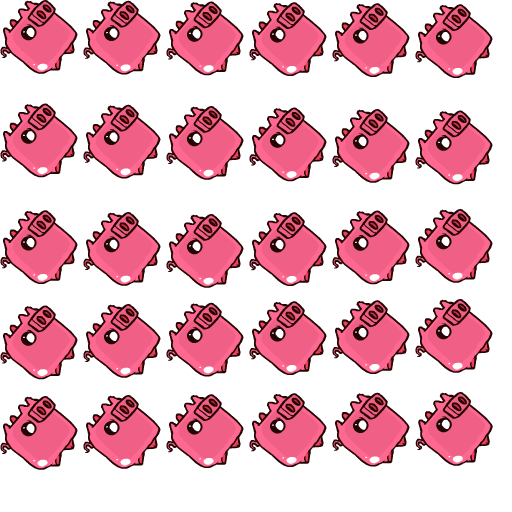
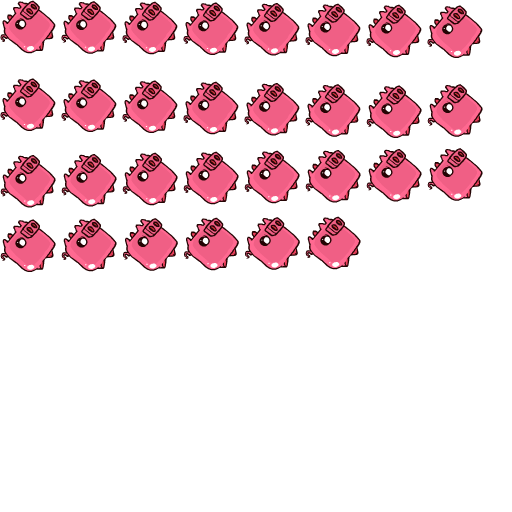
no message

diff --git a/js/Actor.js b/js/Actor.js
@@ -33,7 +33,7 @@ var Actor = function (type) {
 				[0,0,57,87,3,27.9,86.6],[62,0,57,87,3,27.9,86.6],[124,0,57,87,3,27.9,86.6],[186,0,57,87,3,27.9,86.6],[248,0,57,87,3,27.9,86.6],[310,0,57,87,3,27.9,86.6],[372,0,57,87,3,27.9,86.6],[434,0,57,87,3,27.9,86.6],[0,92,57,87,3,27.9,86.6],[62,92,57,87,3,27.9,86.6],[124,92,57,87,3,27.9,86.6],[186,92,57,87,3,27.9,86.6],[248,92,57,87,3,27.9,86.6],[310,92,57,87,3,27.9,86.6],[372,92,57,87,3,27.9,86.6],[434,92,57,87,3,27.9,86.6],[0,184,57,87,3,27.9,86.6],[62,184,57,87,3,27.9,86.6],[124,184,57,87,3,27.9,86.6],[186,184,57,87,3,27.9,86.6],[248,184,57,87,3,27.9,86.6],[310,184,57,87,3,27.9,86.6],
 				[0,0,56,97,4,27.75,93.95],[56,0,56,97,4,27.75,93.95],[112,0,56,97,4,27.75,93.95],[168,0,56,97,4,27.75,93.95],[224,0,56,97,4,27.75,93.95],[280,0,56,97,4,27.75,93.95],[336,0,56,97,4,27.75,93.95],[392,0,56,97,4,27.75,93.95],[448,0,56,97,4,27.75,93.95],[0,97,56,97,4,27.75,93.95],[56,97,56,97,4,27.75,93.95],[112,97,56,97,4,27.75,93.95],[168,97,56,97,4,27.75,93.95],[224,97,56,97,4,27.75,93.95],[280,97,56,97,4,27.75,93.95],[336,97,56,97,4,27.75,93.95],[392,97,56,97,4,27.75,93.95],[448,97,56,97,4,27.75,93.95],[0,194,56,97,4,27.75,93.95],[56,194,56,97,4,27.75,93.95],[112,194,56,97,4,27.75,93.95],[168,194,56,97,4,27.75,93.95],
 				[0,0,167,158,5,84.2,154.3],[167,0,167,158,5,84.2,154.3],[334,0,167,158,5,84.2,154.3],[501,0,167,158,5,84.2,154.3],[668,0,167,158,5,84.2,154.3],[835,0,167,158,5,84.2,154.3],[0,158,167,158,5,84.2,154.3],[167,158,167,158,5,84.2,154.3],[334,158,167,158,5,84.2,154.3],[501,158,167,158,5,84.2,154.3],[668,158,167,158,5,84.2,154.3],[835,158,167,158,5,84.2,154.3],[0,316,167,158,5,84.2,154.3],[167,316,167,158,5,84.2,154.3],[334,316,167,158,5,84.2,154.3],[501,316,167,158,5,84.2,154.3],[668,316,167,158,5,84.2,154.3],[835,316,167,158,5,84.2,154.3],[0,474,167,158,5,84.2,154.3],[167,474,167,158,5,84.2,154.3],[334,474,167,158,5,84.2,154.3],[501,474,167,158,5,84.2,154.3],[668,474,167,158,5,84.2,154.3],[835,474,167,158,5,84.2,154.3],[0,632,167,158,5,84.2,154.3],[167,632,167,158,5,84.2,154.3],[334,632,167,158,5,84.2,154.3],[501,632,167,158,5,84.2,154.3],[668,632,167,158,5,84.2,154.3],[835,632,167,158,5,84.2,154.3],[0,790,167,158,5,84.2,154.3],[167,790,167,158,5,84.2,154.3],[334,790,167,158,5,84.2,154.3],[501,790,167,158,5,84.2,154.3],[668,790,167,158,5,84.2,154.3],[835,790,167,158,5,84.2,154.3],[0,948,167,158,5,84.2,154.3],[167,948,167,158,5,84.2,154.3],[334,948,167,158,5,84.2,154.3],[501,948,167,158,5,84.2,154.3],[668,948,167,158,5,84.2,154.3],[835,948,167,158,5,84.2,154.3],[0,1106,167,158,5,84.2,154.3],[167,1106,167,158,5,84.2,154.3],[334,1106,167,158,5,84.2,154.3],[501,1106,167,158,5,84.2,154.3],[668,1106,167,158,5,84.2,154.3],[835,1106,167,158,5,84.2,154.3],[0,1264,167,158,5,84.2,154.3],[167,1264,167,158,5,84.2,154.3],[334,1264,167,158,5,84.2,154.3],[501,1264,167,158,5,84.2,154.3],[668,1264,167,158,5,84.2,154.3],[835,1264,167,158,5,84.2,154.3],[0,1422,167,158,5,84.2,154.3],[167,1422,167,158,5,84.2,154.3],[334,1422,167,158,5,84.2,154.3],[501,1422,167,158,5,84.2,154.3],[668,1422,167,158,5,84.2,154.3],[835,1422,167,158,5,84.2,154.3],[0,1580,167,158,5,84.2,154.3],[167,1580,167,158,5,84.2,154.3],[334,1580,167,158,5,84.2,154.3],[501,1580,167,158,5,84.2,154.3],[668,1580,167,158,5,84.2,154.3],[835,1580,167,158,5,84.2,154.3],[0,1738,167,158,5,84.2,154.3],
-				[0,0,78,93,6,38.55,74.3],[83,0,78,93,6,38.55,74.3],[166,0,78,93,6,38.55,74.3],[249,0,78,93,6,38.55,74.3],[332,0,78,93,6,38.55,74.3],[415,0,78,93,6,38.55,74.3],[0,98,78,93,6,38.55,74.3],[83,98,78,93,6,38.55,74.3],[166,98,78,93,6,38.55,74.3],[249,98,78,93,6,38.55,74.3],[332,98,78,93,6,38.55,74.3],[415,98,78,93,6,38.55,74.3],[0,196,78,93,6,38.55,74.3],[83,196,78,93,6,38.55,74.3],[166,196,78,93,6,38.55,74.3],[249,196,78,93,6,38.55,74.3],[332,196,78,93,6,38.55,74.3],[415,196,78,93,6,38.55,74.3],[0,294,78,93,6,38.55,74.3],[83,294,78,93,6,38.55,74.3],[166,294,78,93,6,38.55,74.3],[249,294,78,93,6,38.55,74.3],[332,294,78,93,6,38.55,74.3],[415,294,78,93,6,38.55,74.3],[0,392,78,93,6,38.55,74.3],[83,392,78,93,6,38.55,74.3],[166,392,78,93,6,38.55,74.3],[249,392,78,93,6,38.55,74.3],[332,392,78,93,6,38.55,74.3],[415,392,78,93,6,38.55,74.3]
+				[0,0,56,67,6,24.4,69.55],[61,0,56,67,6,24.4,69.55],[122,0,56,67,6,24.4,69.55],[183,0,56,67,6,24.4,69.55],[244,0,56,67,6,24.4,69.55],[305,0,56,67,6,24.4,69.55],[366,0,56,67,6,24.4,69.55],[427,0,56,67,6,24.4,69.55],[0,72,56,67,6,24.4,69.55],[61,72,56,67,6,24.4,69.55],[122,72,56,67,6,24.4,69.55],[183,72,56,67,6,24.4,69.55],[244,72,56,67,6,24.4,69.55],[305,72,56,67,6,24.4,69.55],[366,72,56,67,6,24.4,69.55],[427,72,56,67,6,24.4,69.55],[0,144,56,67,6,24.4,69.55],[61,144,56,67,6,24.4,69.55],[122,144,56,67,6,24.4,69.55],[183,144,56,67,6,24.4,69.55],[244,144,56,67,6,24.4,69.55],[305,144,56,67,6,24.4,69.55],[366,144,56,67,6,24.4,69.55],[427,144,56,67,6,24.4,69.55],[0,216,56,67,6,24.4,69.55],[61,216,56,67,6,24.4,69.55],[122,216,56,67,6,24.4,69.55],[183,216,56,67,6,24.4,69.55],[244,216,56,67,6,24.4,69.55],[305,216,56,67,6,24.4,69.55]
 			],
 			animations: { 
 				run: [0, 21],
@@ -124,11 +124,16 @@ var Actor = function (type) {
 
 Actor.prototype.update = function () {
 	if (this.active) {
+
+		
+
 		this.checkExploding();
 		this.doAI();
 		this.applyVelocity();
 		this.updateBalloon();
 		
+
+
 	}
 };
 
@@ -220,9 +225,14 @@ Actor.prototype.doAI = function () {
 	} else if (this.state === GJ.States.LEGGING_IT) {
 		this.moveRight();
 
-		if (this.image.x >= GJ.getStage().canvas.width + 50) {
+		if (this.image.x >= GJ.getStage().canvas.width + 50 && this.hasGem) {
 			GJ.gentlemanStoleMyBike();
 			this.kill();
+
+			this.active = false;
+			GJ.removeEnemy();
+			
+		
 		}
 	} else if (this.state === GJ.States.EXPLODING) {
 		this.dampenAcceleration();

diff --git a/img/Pigs/FlyingPig.js b/img/Pigs/FlyingPig.js
@@ -2,7 +2,7 @@
 PigFly_instance_1 = function() {
 	this.initialize();
 }
-PigFly_instance_1._SpriteSheet = new createjs.SpriteSheet({images: ["FlyingPig.png"], frames: [[0,0,78,93,0,38.55,74.3],[83,0,78,93,0,38.55,74.3],[166,0,78,93,0,38.55,74.3],[249,0,78,93,0,38.55,74.3],[332,0,78,93,0,38.55,74.3],[415,0,78,93,0,38.55,74.3],[0,98,78,93,0,38.55,74.3],[83,98,78,93,0,38.55,74.3],[166,98,78,93,0,38.55,74.3],[249,98,78,93,0,38.55,74.3],[332,98,78,93,0,38.55,74.3],[415,98,78,93,0,38.55,74.3],[0,196,78,93,0,38.55,74.3],[83,196,78,93,0,38.55,74.3],[166,196,78,93,0,38.55,74.3],[249,196,78,93,0,38.55,74.3],[332,196,78,93,0,38.55,74.3],[415,196,78,93,0,38.55,74.3],[0,294,78,93,0,38.55,74.3],[83,294,78,93,0,38.55,74.3],[166,294,78,93,0,38.55,74.3],[249,294,78,93,0,38.55,74.3],[332,294,78,93,0,38.55,74.3],[415,294,78,93,0,38.55,74.3],[0,392,78,93,0,38.55,74.3],[83,392,78,93,0,38.55,74.3],[166,392,78,93,0,38.55,74.3],[249,392,78,93,0,38.55,74.3],[332,392,78,93,0,38.55,74.3],[415,392,78,93,0,38.55,74.3]]});
+PigFly_instance_1._SpriteSheet = new createjs.SpriteSheet({images: ["FlyingPig.png"], frames: [[0,0,56,67,0,24.4,69.55],[61,0,56,67,0,24.4,69.55],[122,0,56,67,0,24.4,69.55],[183,0,56,67,0,24.4,69.55],[244,0,56,67,0,24.4,69.55],[305,0,56,67,0,24.4,69.55],[366,0,56,67,0,24.4,69.55],[427,0,56,67,0,24.4,69.55],[0,72,56,67,0,24.4,69.55],[61,72,56,67,0,24.4,69.55],[122,72,56,67,0,24.4,69.55],[183,72,56,67,0,24.4,69.55],[244,72,56,67,0,24.4,69.55],[305,72,56,67,0,24.4,69.55],[366,72,56,67,0,24.4,69.55],[427,72,56,67,0,24.4,69.55],[0,144,56,67,0,24.4,69.55],[61,144,56,67,0,24.4,69.55],[122,144,56,67,0,24.4,69.55],[183,144,56,67,0,24.4,69.55],[244,144,56,67,0,24.4,69.55],[305,144,56,67,0,24.4,69.55],[366,144,56,67,0,24.4,69.55],[427,144,56,67,0,24.4,69.55],[0,216,56,67,0,24.4,69.55],[61,216,56,67,0,24.4,69.55],[122,216,56,67,0,24.4,69.55],[183,216,56,67,0,24.4,69.55],[244,216,56,67,0,24.4,69.55],[305,216,56,67,0,24.4,69.55]]});
 var PigFly_instance_1_p = PigFly_instance_1.prototype = new createjs.BitmapAnimation();
 PigFly_instance_1_p.BitmapAnimation_initialize = PigFly_instance_1_p.initialize;
 PigFly_instance_1_p.initialize = function() {

diff --git a/img/Turtle/Turtle.js b/img/Turtle/Turtle.js
@@ -2,7 +2,7 @@
 IdleTurtle_instance_1 = function() {
 	this.initialize();
 }
-IdleTurtle_instance_1._SpriteSheet = new createjs.SpriteSheet({images: ["Turtle.png"], frames: [[0,0,269,143,0,134.15,141.85],[274,0,269,143,0,134.15,141.85],[548,0,269,143,0,134.15,141.85],[0,148,269,143,0,134.15,141.85],[274,148,269,143,0,134.15,141.85],[548,148,269,143,0,134.15,141.85],[0,296,269,143,0,134.15,141.85],[274,296,269,143,0,134.15,141.85],[548,296,269,143,0,134.15,141.85],[0,444,269,143,0,134.15,141.85],[274,444,269,143,0,134.15,141.85],[548,444,269,143,0,134.15,141.85],[0,592,269,143,0,134.15,141.85],[274,592,269,143,0,134.15,141.85],[548,592,269,143,0,134.15,141.85],[0,740,269,143,0,134.15,141.85]]});
+IdleTurtle_instance_1._SpriteSheet = new createjs.SpriteSheet({images: ["Turtle.png"], frames: [[0,0,269,148,0,134.15,146.45],[274,0,269,148,0,134.15,146.45],[548,0,269,148,0,134.15,146.45],[0,153,269,148,0,134.15,146.45],[274,153,269,148,0,134.15,146.45],[548,153,269,148,0,134.15,146.45],[0,306,269,148,0,134.15,146.45],[274,306,269,148,0,134.15,146.45],[548,306,269,148,0,134.15,146.45],[0,459,269,148,0,134.15,146.45],[274,459,269,148,0,134.15,146.45],[548,459,269,148,0,134.15,146.45],[0,612,269,148,0,134.15,146.45],[274,612,269,148,0,134.15,146.45],[548,612,269,148,0,134.15,146.45],[0,765,269,148,0,134.15,146.45]]});
 var IdleTurtle_instance_1_p = IdleTurtle_instance_1.prototype = new createjs.BitmapAnimation();
 IdleTurtle_instance_1_p.BitmapAnimation_initialize = IdleTurtle_instance_1_p.initialize;
 IdleTurtle_instance_1_p.initialize = function() {

diff --git a/js/GJ.js b/js/GJ.js
@@ -22,6 +22,8 @@ var GJ = (function () {
 		heartText,
 		heartImage,
 
+		enemyCount,
+
 		stage,
 		worlds,
 		actors,
@@ -52,14 +54,17 @@ var GJ = (function () {
 
 
 	var setupHeart = function () {
-		heartImage = new createjs.Bitmap(GJ.Assets.get('BulletGem'));
-			heartImage.x = 90;
+		heartImage = new createjs.Bitmap(GJ.Assets.get('ParticleHeart'));
+			heartImage.x = 100;
 			heartImage.y = 20;
+					heartImage.scaleX = 0.55;
+			heartImage.scaleY = 0.55;
 			stage.addChild(heartImage);
 
 			heartText = new createjs.Text('' + numHearts, "20px Arial", "#000000"); 
 			heartText.x = 130;
 			heartText.y = 40;
+	
 			heartText.textBaseline = "alphabetic";
 			stage.addChild(heartText);
 	};
@@ -96,6 +101,8 @@ var GJ = (function () {
 				// actors.push(new Actor(GJ.ActorTypes.FLYING_NORMAL));
 				// }
 
+			enemyCount = actors.length;
+
 
 			players = [];
 			for (i = 0; i < NUM_PLAYERS; i++) {
@@ -112,6 +119,8 @@ var GJ = (function () {
 			numGems = 10;
 			numHearts = 3;
 
+
+
 			setupGem();
 			setupHeart();
 
@@ -122,9 +131,7 @@ var GJ = (function () {
 			GJ.Sound.init(); // Start the audio engine
 
 
-			GJ.Sound.triggerEvent("turtle_happy");
-			turtle.spawnHearts();
-			var effect = new Effect(300, 300, GJ.EffectTypes.WAVE_OVER, 0);
+			
 		},
 
 
@@ -208,6 +215,16 @@ var GJ = (function () {
 
 		getTurtle: function () {
 			return turtle;
+		},
+
+		removeEnemy: function () {
+			enemyCount--;
+
+			if (enemyCount <= 0) {
+				GJ.Sound.triggerEvent("turtle_happy");
+			turtle.spawnHearts();
+			var effect = new Effect(800, 300, GJ.EffectTypes.WAVE_OVER, 0);
+			}
 		},
 
 		takeHit: function () {

diff --git a/js/Turtle.js b/js/Turtle.js
@@ -10,7 +10,7 @@ var Turtle = function () {
 		frames: [
 			// x, y, width, height, index, regX, regY
 			// the index needs to match the file with the sprites
-			[0,0,269,143,0,134.15,141.85],[274,0,269,143,0,134.15,141.85],[548,0,269,143,0,134.15,141.85],[0,148,269,143,0,134.15,141.85],[274,148,269,143,0,134.15,141.85],[548,148,269,143,0,134.15,141.85],[0,296,269,143,0,134.15,141.85],[274,296,269,143,0,134.15,141.85],[548,296,269,143,0,134.15,141.85],[0,444,269,143,0,134.15,141.85],[274,444,269,143,0,134.15,141.85],[548,444,269,143,0,134.15,141.85],[0,592,269,143,0,134.15,141.85],[274,592,269,143,0,134.15,141.85],[548,592,269,143,0,134.15,141.85],[0,740,269,143,0,134.15,141.85]
+			[0,0,269,148,0,134.15,146.45],[274,0,269,148,0,134.15,146.45],[548,0,269,148,0,134.15,146.45],[0,153,269,148,0,134.15,146.45],[274,153,269,148,0,134.15,146.45],[548,153,269,148,0,134.15,146.45],[0,306,269,148,0,134.15,146.45],[274,306,269,148,0,134.15,146.45],[548,306,269,148,0,134.15,146.45],[0,459,269,148,0,134.15,146.45],[274,459,269,148,0,134.15,146.45],[548,459,269,148,0,134.15,146.45],[0,612,269,148,0,134.15,146.45],[274,612,269,148,0,134.15,146.45],[548,612,269,148,0,134.15,146.45],[0,765,269,148,0,134.15,146.45]
 		],
 		animations: { 
 			idle: [0, 15]

diff --git a/js/Player.js b/js/Player.js
@@ -29,26 +29,6 @@ var Player = function (leftKey, rightKey, shootKey, jumpKey, meleeKey, useKey, m
 
 	this.direction = GJ.Directions.RIGHT;
 
-	// data = new createjs.SpriteSheet({
- //            'images': [GJ.Assets.get('playerSS')],
- //            'frames': {
- //            	'regX': 0, 
- //            	'height': 292, 
- //            	'count': 64, 
- //            	'regY': 0, 
- //            	'width': 165
- //            },
- //            // define two animations, run (loops, 1.5x speed) and jump (returns to run):
- //            'animations': {
- //            	'run': [0, 25, 'run', 1.5], 
- //            	'jump': [26, 63, 'run'],
- //            	'idle': [0, 0]
- //            }
- //    });
- //    this.image = new createjs.Sprite(data, "run");
- //    this.image.setTransform(-200, 90, 0.8, 0.8);
- //    this.image.framerate = 30;
-
 	this.gun = new Gun(GJ.getTargetFPS(), 6, 0, this, 0, -48);
 	this.gunType = GJ.Weapons.PLAYER_GUN;
 
